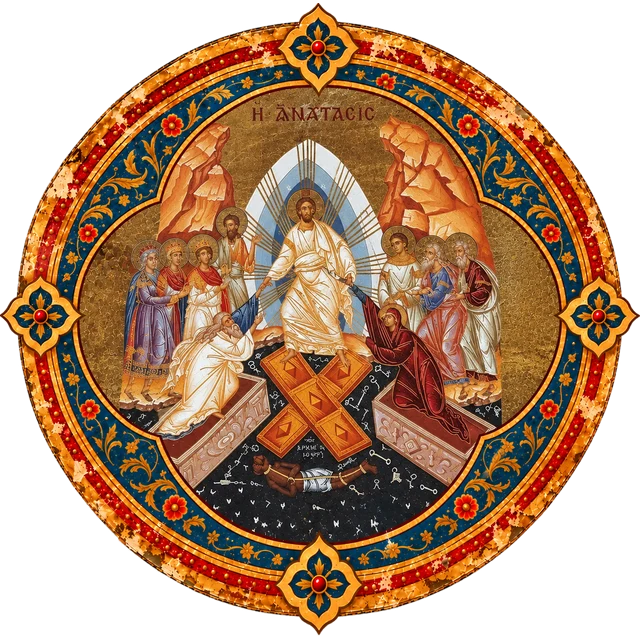
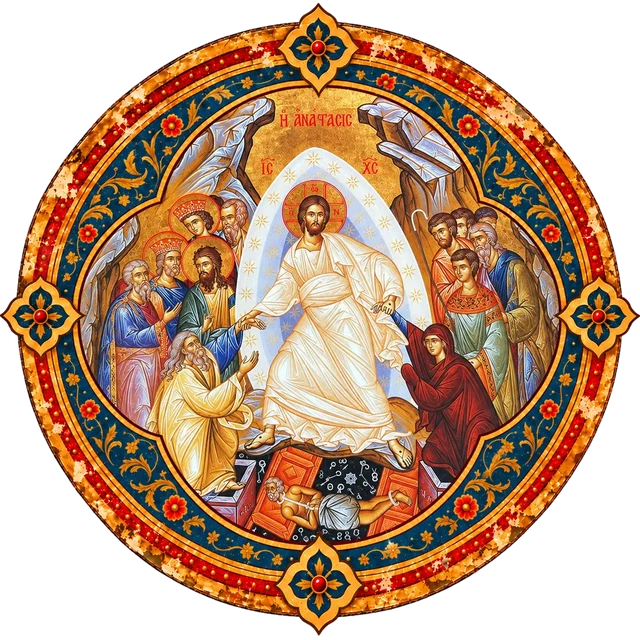
Citaten met bron, Adem- en snoerknoppen, nieuw Pascha-icoon, audit H1–H4
- Citaten zonder bron vervangen door uitspraken van de Woestijnvaders
- Adem mee, tempo en gebedssnoer-knoppen in de stijl van "vandaag" (kalender)
- Nieuw Pascha-icoon (Anastasis)
- Vandaag-kaarten op tablet, contrast Lage Landen, gekozen categorie
  Heiligen, volledige tekst in de Jaar-tegels

diff --git a/src/index.css b/src/index.css
@@ -3743,3 +3743,33 @@ html.lees-nacht #top#top#top#top .pk-datum{color:#e7a08f}
 .ps-spotify-mobiel{display:none!important}
 @media(pointer:coarse){.ps-spotify-mobiel{display:inline-flex!important}.ps-spotify-web{display:none!important}}
 #top#top#top#top#top#top .ps-spotify-mobiel{text-decoration:none}
+
+/* Bouw 187 — Heiligen: citaten met bronvermelding (Woestijnvaders) */
+#top#top#top#top#top#top .saints-side-quote cite,#top#top#top#top#top#top .saints-lowlands blockquote cite{display:block;margin-top:10px;font-style:normal;font-size:15px;letter-spacing:.02em}
+
+/* Bouw 188 — Adem: "Adem mee" en het gekozen tempo in de stijl van "vandaag" in de kalender (licht vlak, bordeaux en gouden binnenlijn, ruitje) */
+#top#top#top#top#top#top#top#top#top :is(.ad-start,.ad-tempo button[aria-pressed=true]){border:0;background:rgba(251,246,233,.45);box-shadow:inset 0 0 0 2px var(--ot-titel),inset 0 0 0 4px rgba(218,175,55,.7);color:var(--ot-chocolade)}
+#top#top#top#top#top#top#top#top#top .ad-start[aria-pressed=true]{background:rgba(251,246,233,.45)}
+#top#top#top#top#top#top#top#top#top .ad-tempo button{display:inline-flex;align-items:center;justify-content:center;gap:6px;min-height:44px}
+#top#top#top#top#top#top#top#top#top .ad-tempo button[aria-pressed=true]::before{content:"◆";font-size:9px;color:var(--ot-titel)}
+
+/* Bouw 189 — Gebedssnoer: knoppen als in de ademcyclus (Bouw 188). Acties = "Adem mee"; 33/50/100 = de tempoknoppen. */
+#top#top#top#top#top#top#top#top#top#top .snoer-keuze{display:flex!important;gap:8px;padding:0!important;border:0!important;border-image:none!important;background:none!important;box-shadow:none!important}
+#top#top#top#top#top#top#top#top#top#top .snoer-keuze button{display:inline-flex;align-items:center;justify-content:center;gap:6px;min-height:44px;min-width:64px;padding:0 14px;border:1px solid rgba(154,106,31,.6)!important;background:rgba(251,246,233,.5)!important;font-family:var(--font-display)!important;font-size:16px;font-weight:400!important;color:var(--ot-chocolade)!important}
+#top#top#top#top#top#top#top#top#top#top :is(.snoer-acties button,.snoer-keuze button[aria-pressed=true]){border:0!important;border-image:none!important;border-radius:0!important;background:rgba(251,246,233,.45)!important;box-shadow:inset 0 0 0 2px var(--ot-titel),inset 0 0 0 4px rgba(218,175,55,.7)!important;color:var(--ot-chocolade)!important}
+#top#top#top#top#top#top#top#top#top#top .snoer-keuze button[aria-pressed=true]::before{content:"◆";font-size:9px;color:var(--ot-titel)}
+#top#top#top#top#top#top#top#top#top#top .snoer-acties button{padding:0 20px;text-transform:uppercase;letter-spacing:.12em!important;font-size:14px;font-weight:600!important}
+
+/* Bouw 190 — audit H1–H4.
+   H1 Vandaag (web): de twee hoofdkaarten als flexrij, zodat de tekst de volle breedte krijgt (op tablet kwam die in de smalle icoonkolom). */
+#top#top#top#top#top#top#top#top#top#top .vd-primair .vandaag-item{display:flex!important;align-items:center;gap:16px}
+#top#top#top#top#top#top#top#top#top#top .vd-primair .vandaag-item>div{display:block!important;flex:1;min-width:0}
+#top#top#top#top#top#top#top#top#top#top .vd-primair .vandaag-item>svg{flex:none}
+/* H2 Heiligen: koppen op het donkere Lage Landen-vlak in antiekgoud (bordeaux was onleesbaar) */
+#top#top#top#top#top#top#top#top#top#top .saints-lowlands h2{color:var(--ot-antiekgoud)!important}
+/* H3 Heiligen: de gekozen categorie in de keuzestijl (kader van vandaag), met leesbare inkt */
+#top#top#top#top#top#top#top#top#top#top .bibliotheek .saints-category-grid button.active{background:rgba(251,246,233,.45)!important;background-image:none!important;box-shadow:inset 0 0 0 2px var(--ot-titel),inset 0 0 0 4px rgba(218,175,55,.7)!important}
+#top#top#top#top#top#top#top#top#top#top .bibliotheek .saints-category-grid button.active strong{color:var(--ot-rubriek)!important}
+#top#top#top#top#top#top#top#top#top#top .bibliotheek .saints-category-grid button.active>span{color:var(--ot-tekst)!important}
+/* H4 Jaar en Vasten: de uitleg in de tegels volledig tonen, niet afkappen */
+#top#top#top#top#top#top#top#top#top#top .ornate-card p{display:block!important;-webkit-line-clamp:unset!important;overflow:visible!important}

diff --git a/src/components/Heiligen.tsx b/src/components/Heiligen.tsx
@@ -84,7 +84,7 @@ export default function Heiligen() {
               <div className="saints-feature-actions"><button onClick={()=>setGeselecteerde(uitgelicht)} className="saints-gold-button">Lees het leven ›</button>{heiligenVandaag.length>1&&<button onClick={()=>openDagHeiligen(dagVandaag.ymd)} className="saints-text-link">Bekijk alle {heiligenVandaag.length} heiligen ›</button>}</div>
             </> : <p>Voor deze dag is nog geen heilige beschikbaar.</p>}
           </div>
-          <blockquote className="saints-side-quote">“Het doel van ons leven is de vergoddelijking door genade.”<span>✣</span></blockquote>
+          <blockquote className="saints-side-quote">“Ik zag alle strikken die de vijand over de wereld had uitgespreid en vroeg: Wie kan daaraan ontkomen? Toen hoorde ik een stem antwoorden: Nederigheid.”<cite>— Abba Antonius de Grote</cite><span>✣</span></blockquote>
         </section>
 
         <section className="saints-discover bibliotheek">
@@ -111,7 +111,7 @@ export default function Heiligen() {
         <section className="saints-lowlands">
           <div className="saints-lowlands-map"><img loading="lazy" decoding="async" src="/images/decor/lage-landen.webp" alt="Kaart van de Lage Landen" /></div>
           <div><h2>Heiligen van de Lage Landen</h2><p className="ot-tekst">Ontdek de heiligen die verbonden zijn met de Nederlanden, België en omliggende gebieden.</p><p className="ot-tekst">Van Willibrord en Servatius tot Lambertus en Bavo — onze streken hebben een rijke geschiedenis van heilige mannen en vrouwen.</p><button onClick={()=>{const nieuw=!alleenNl;setAlleenNl(nieuw);setMaand(null);setDag(null);setCategorie('alle');setZoek('');setWachtOpDag(false)}} className={`saints-outline-button ${alleenNl?'active':''}`}>{alleenNl?'Deselecteer Heiligen van de Lage Landen ×':'Bekijk alle heiligen van de Lage Landen ›'}</button></div>
-          <blockquote>“Ook in onze streken heeft de Heer Zijn getuigen doen opstaan.”<span>✣</span></blockquote>
+          <blockquote>“Ons leven en onze dood liggen bij onze naaste. Als wij onze broeder winnen, winnen wij God.”<cite>— Abba Antonius de Grote</cite><span>✣</span></blockquote>
         </section>
 
         {toonResultaten && alleenLageLanden && resultatenBlok}

diff --git a/src/components/Ademcyclus.tsx b/src/components/Ademcyclus.tsx
@@ -104,16 +104,16 @@ export default function Ademcyclus() {
           </section>
 
           <blockquote className="ad-citaat">
-            <p>“Het Jezusgebed is een bron van barmhartigheid, een licht in het hart en een weg naar de stilte van God.”</p>
-            <footer>— Heilige Silouan de Athoniet</footer>
+            <p>“Ga, zit in je cel, en je cel zal je alles leren.”</p>
+            <footer>— Abba Mozes de Ethiopiër</footer>
           </blockquote>
         </div>
       </section>
 
       {/* Quote + Van adem naar etmaal */}
       <CycleTransition
-        quote="De Heer Jezus is het midden van het gebed, het vasteland van de geest en het licht van de ziel."
-        citation="Monastieke traditie"
+        quote="Er is geen noodzaak om veel woorden te gebruiken. Zeg: Heer, zoals U wilt en zoals U weet, ontferm U."
+        citation="Abba Macarius de Grote"
         eyebrow="Van adem naar etmaal"
         text="Wat in de adem begint als de voortdurende gedachtenis aan Christus, krijgt in de etmaalcyclus zijn vaste gestalte: de gebeden die de Kerk door dag en nacht heen bidt."
         buttonLabel="Ontdek de etmaalcyclus"

diff --git a/src/components/Gebeden.tsx b/src/components/Gebeden.tsx
@@ -252,8 +252,8 @@ export default function Gebeden() {
 
       {/* Contemplatieve afsluiting */}
       <CycleTransition
-        quote="De Heer Jezus is het midden van het gebed, het vasteland van de geest en het licht van de ziel."
-        citation="Monastieke traditie"
+        quote="Er is geen noodzaak om veel woorden te gebruiken. Zeg: Heer, zoals U wilt en zoals U weet, ontferm U."
+        citation="Abba Macarius de Grote"
         eyebrow="Gebed als leven"
         text="De ademcyclus is geen afzonderlijke liturgische cyclus van de Kerk, maar het kleinste ritme van het gebedsleven: de voortdurende gedachtenis aan Christus, die zich met iedere ademhaling kan verbinden."
         buttonLabel="Ontdek de ademcyclus"
